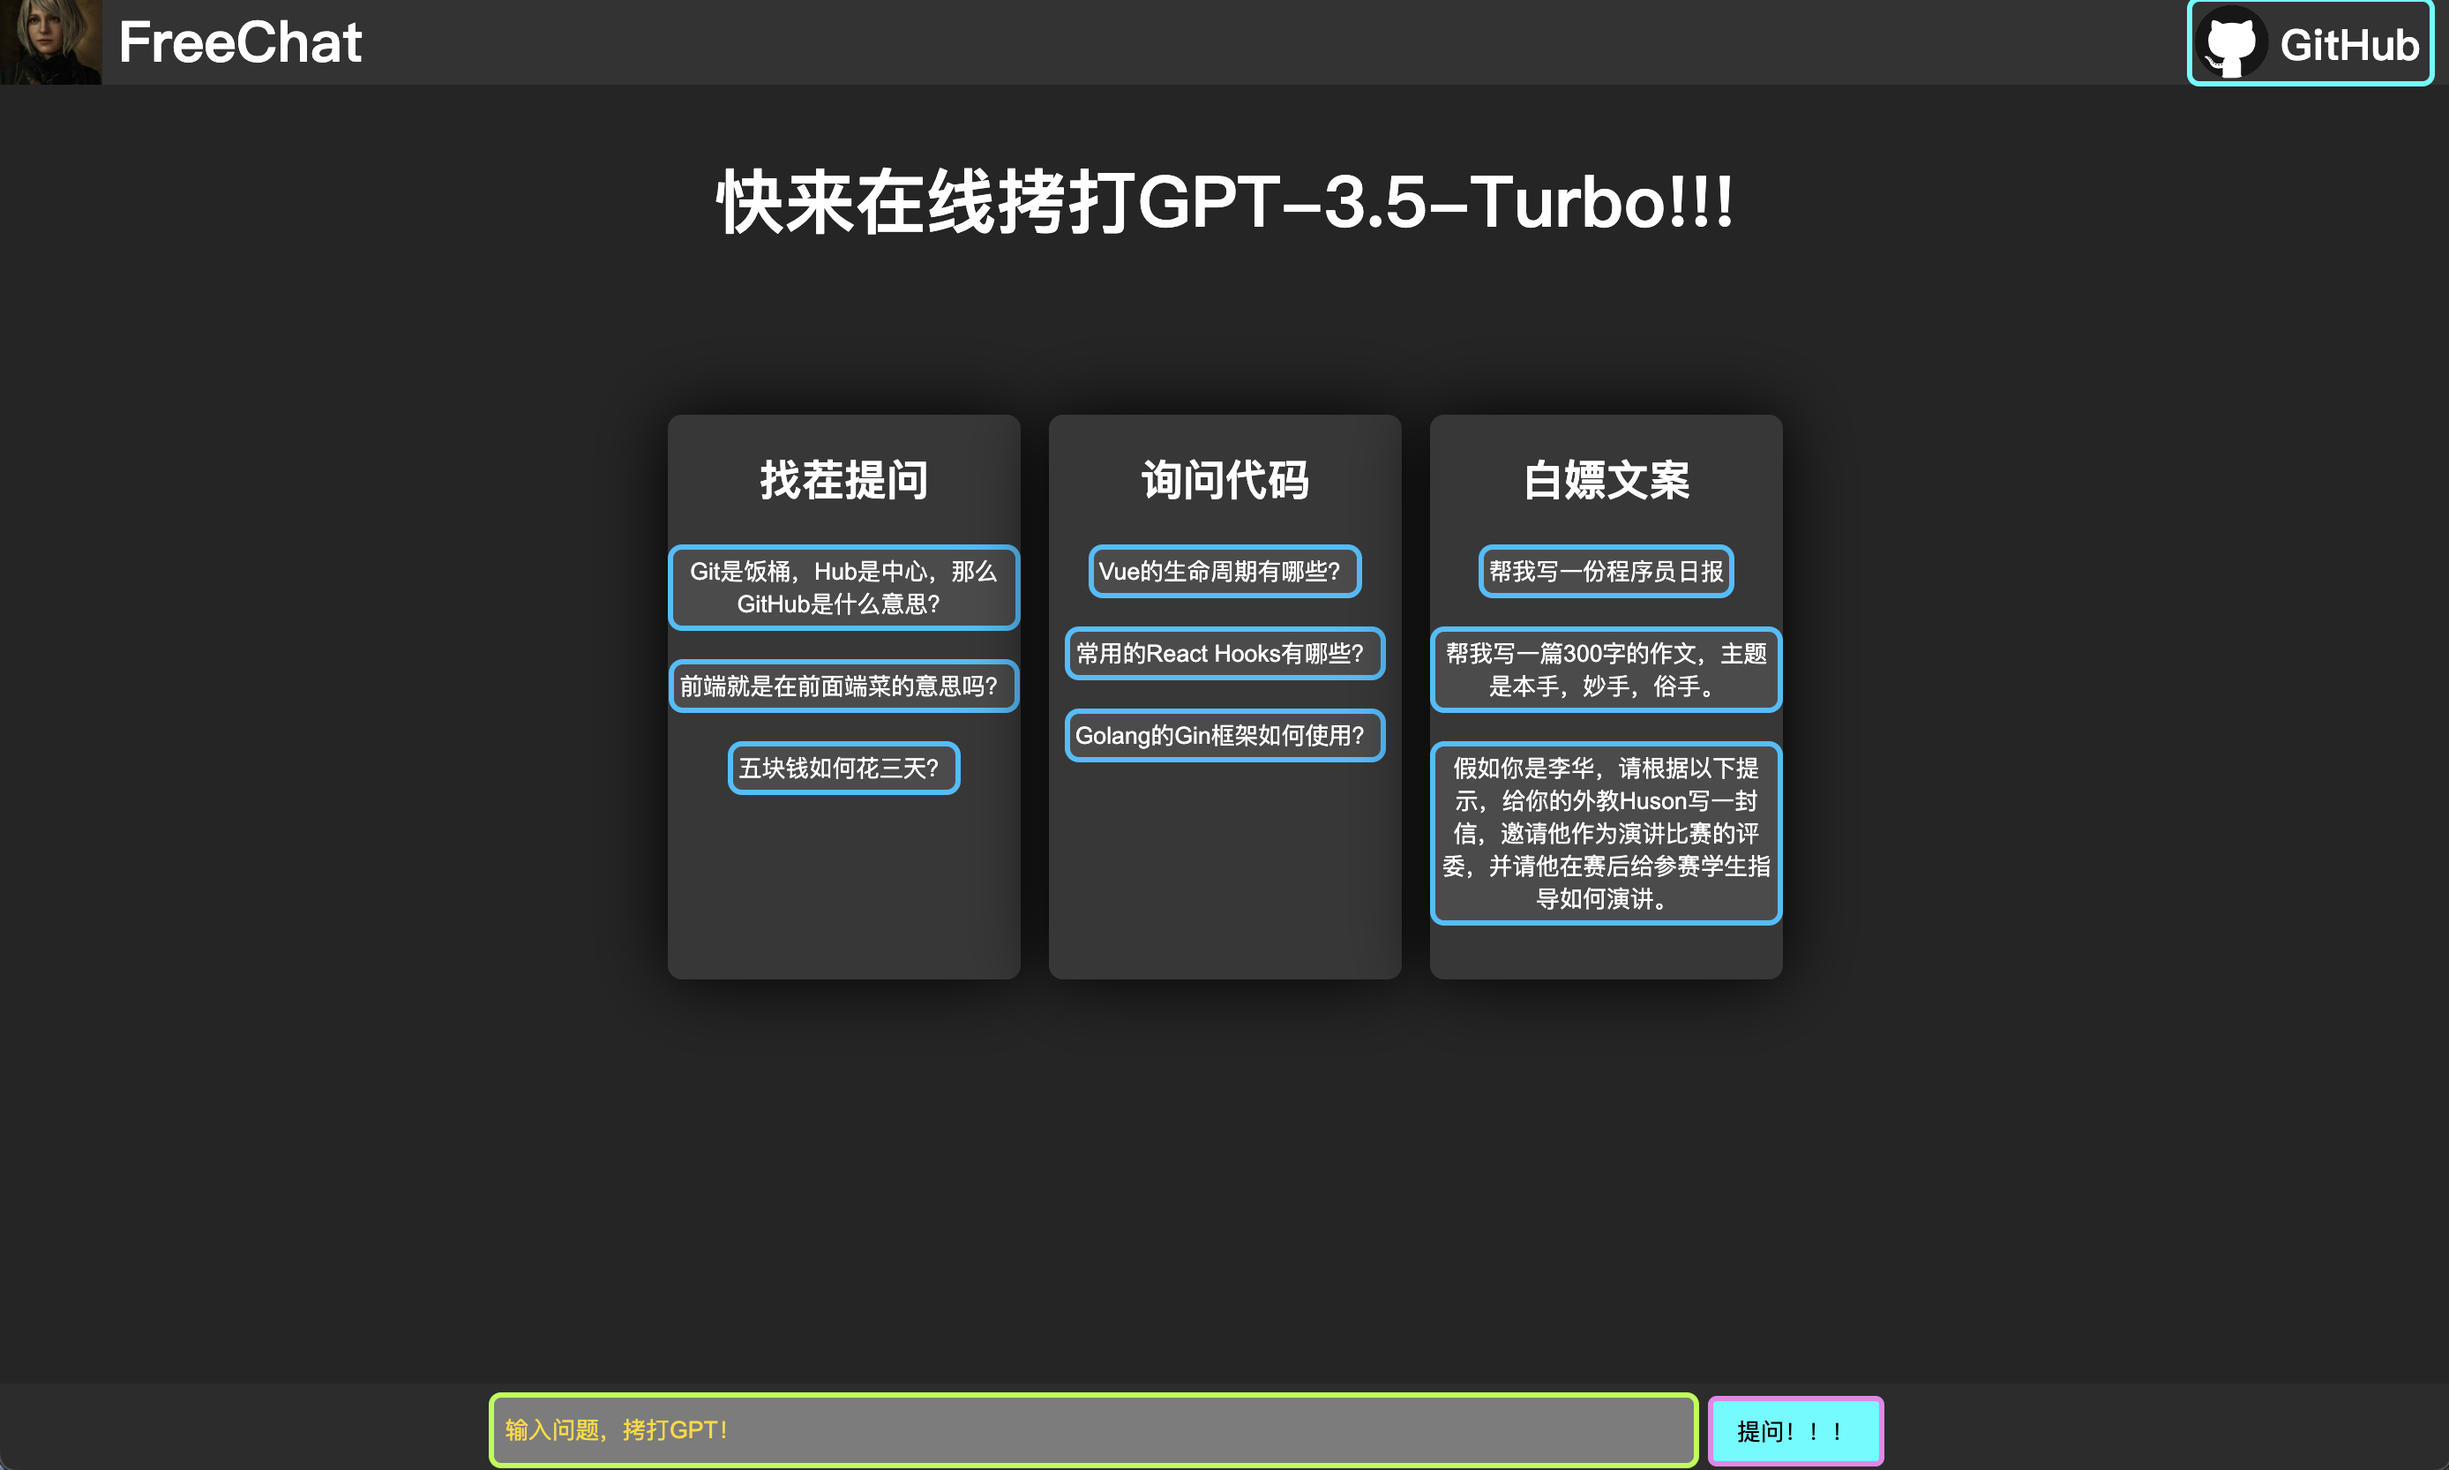
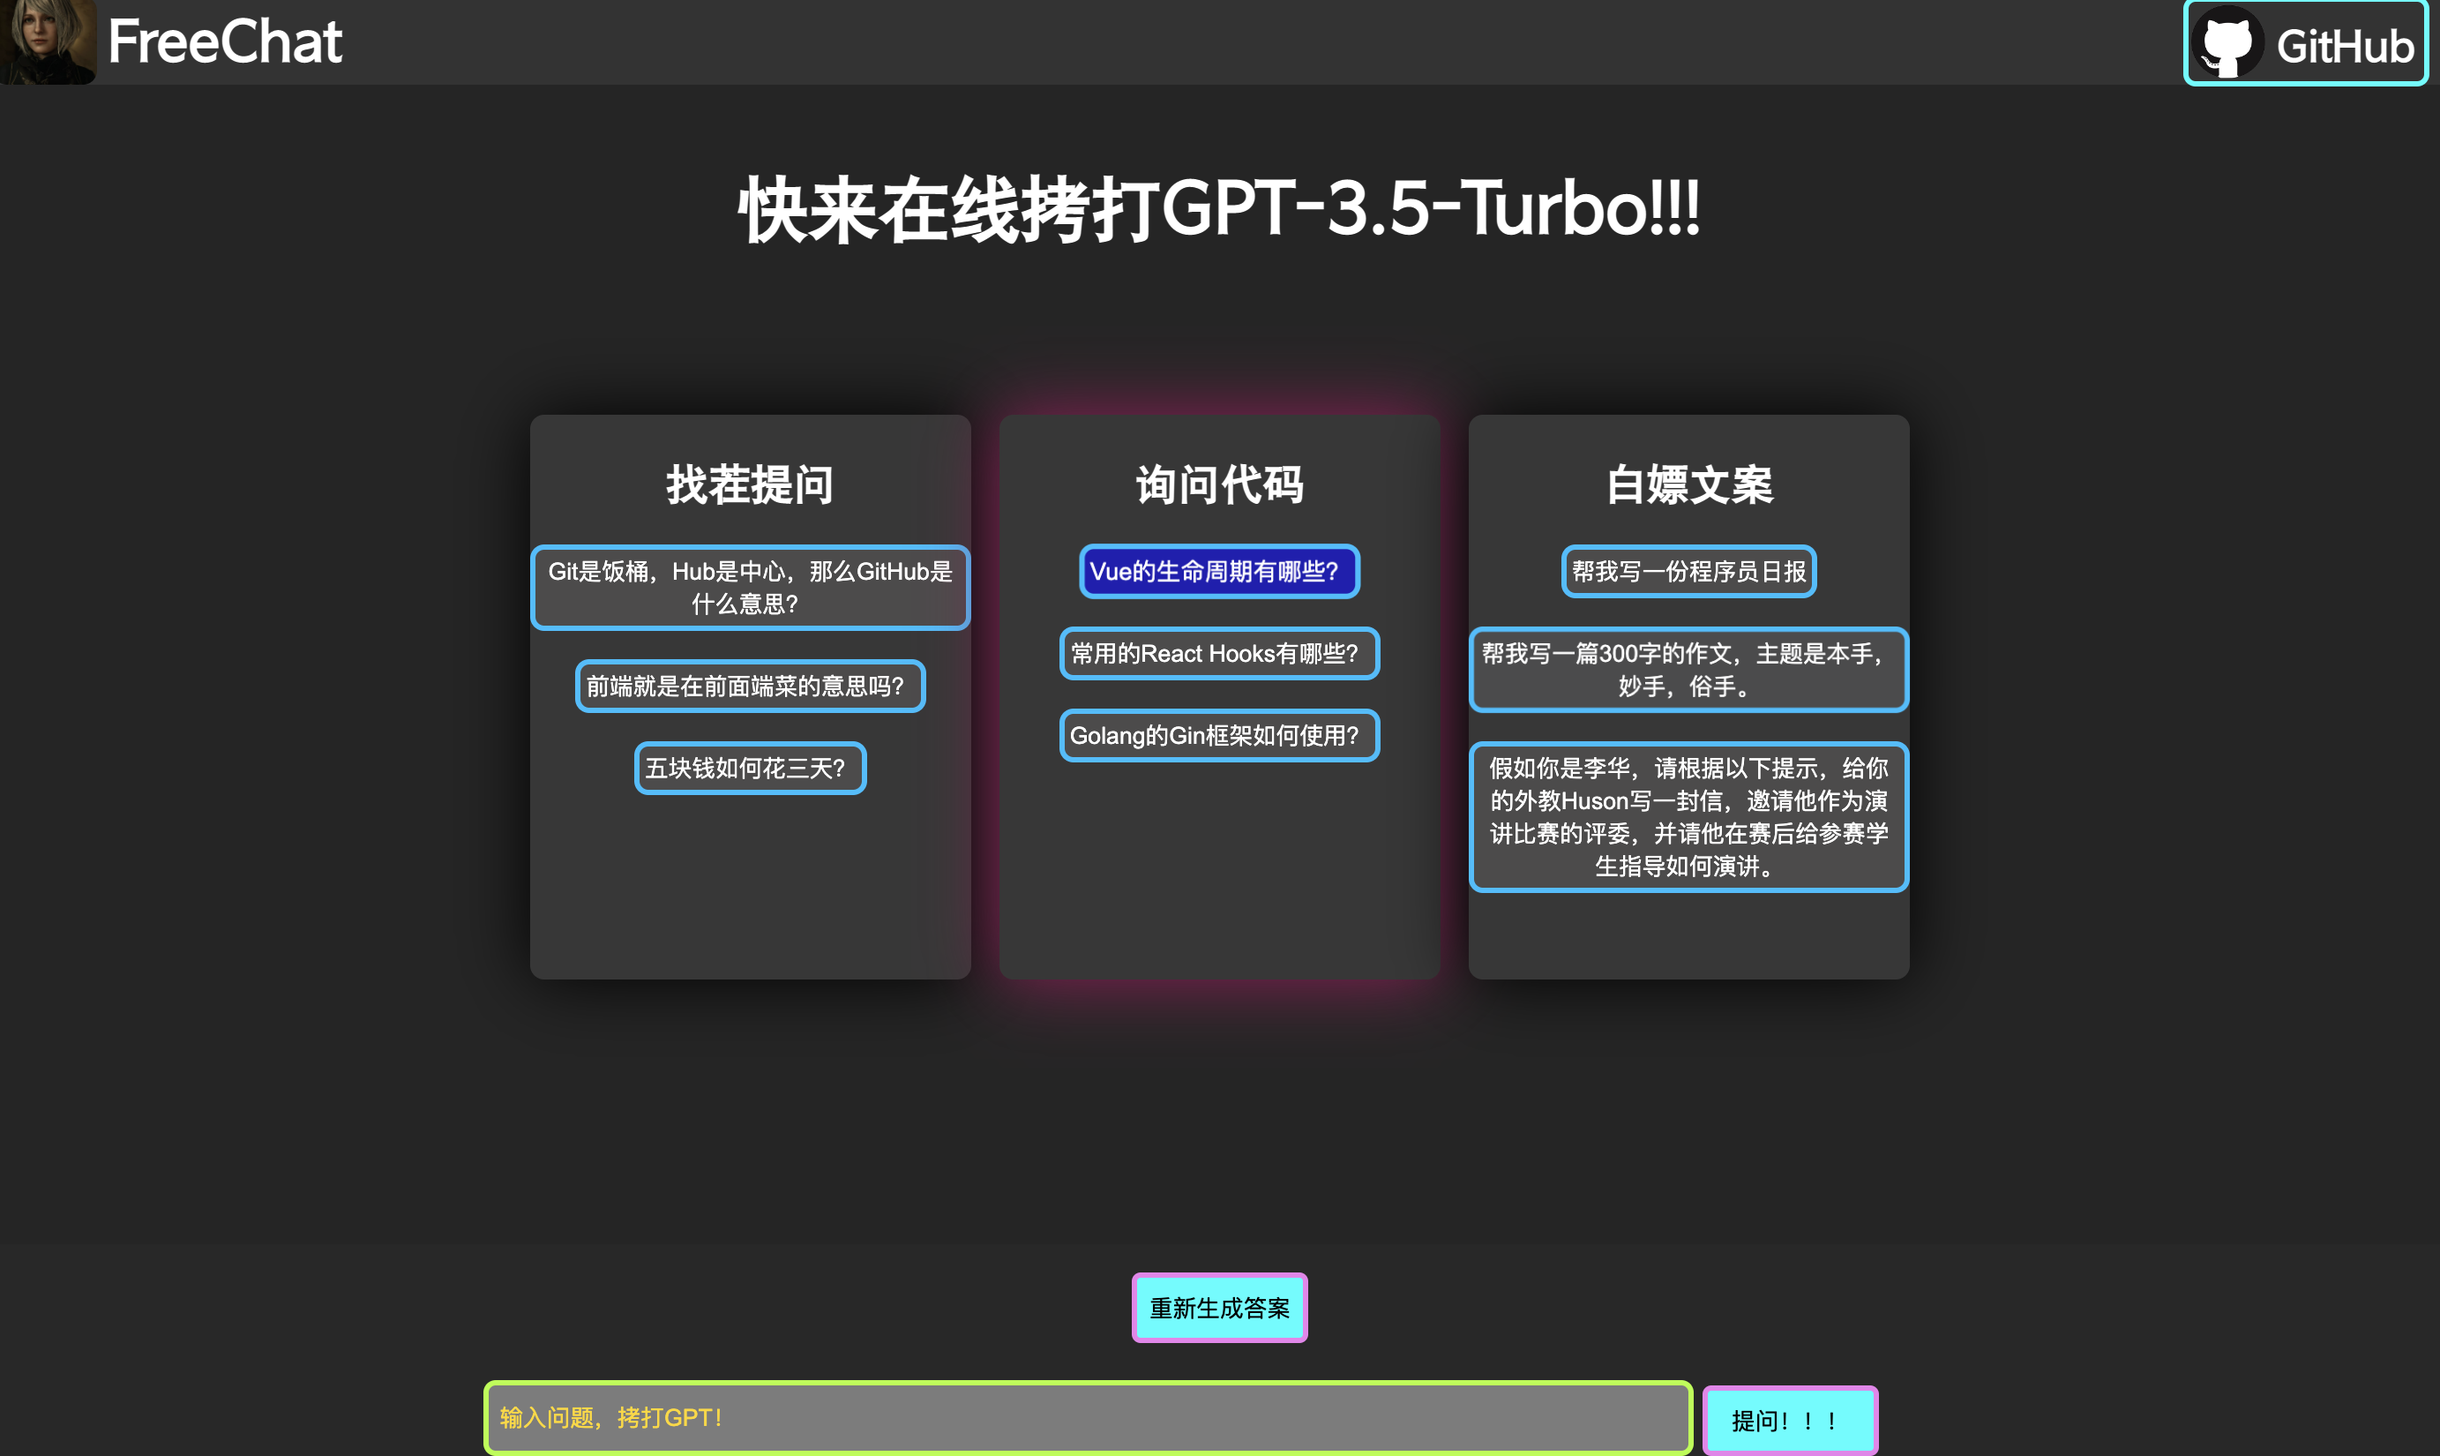
增加重新生成答案接口，并且更新文档

diff --git a/backupPlan.py b/backupPlan.py
@@ -15,13 +15,10 @@ CORS(app, resources=r'/*')
 
 messages = []
 
-'''
+"""
 编写请求函数
-'''
-@app.route("/", methods=["POST"])
-def bai_piao_chatGPT():
-    content = req.json.get("content")
-
+"""
+def send_message(content: str):
     global messages
     messages.append(
         {"role": "user", "content": content}
@@ -43,7 +40,6 @@ def bai_piao_chatGPT():
         "messages": messages
     }
 
-
     # 发起请求
     response = requests.post(
         url,
@@ -56,9 +52,7 @@ def bai_piao_chatGPT():
         请求成功，则把最新的message推入数组
         """
         res_message_obj = response.json()["choices"][0]["message"]
-
         messages.append(res_message_obj)
-
         return res_message_obj["content"]
 
     # 出错则返回错误信息
@@ -66,6 +60,32 @@ def bai_piao_chatGPT():
         # 清空上下文
         messages = []
         return str(err)
+
+'''
+聊天请求接口
+'''
+@app.route("/", methods=["POST"])
+def bai_piao_chatGPT():
+    content = req.json.get("content")
+    return send_message(content)
+
+"""
+重新生成答案
+"""
+@app.route("/regenerate", methods=["GET"])
+def regenerate():
+    global messages
+    if len(messages) < 1:
+        return "消息为空"
+    else:
+        # 提取最后一次的用户问题
+        last_content = messages[len(messages) - 2]["content"]
+        messages = messages[0:-2] # 删除最后两条问答
+
+        # 重新发请求
+        return send_message(last_content)
+
+
 
 
 """
@@ -84,6 +104,8 @@ def clear_context():
 def show_context_count():
     global messages
     return "当前上下文条数：" + str(len(messages))
+
+
 
 
 if __name__== "__main__":

diff --git a/README.md b/README.md
@@ -12,9 +12,12 @@
 ## 已增加前端页面
 前端代码仓库：[Bai-Piao-GPT-WebUI](https://github.com/Vincent-the-gamer/Bai-Piao-GPT-WebUI)
 
+前端已支持markdown代码渲染，后续功能慢慢完善
+
 请大家自行拉取前后端去部署了，我不想公开服务器的使用了，以免被恶意刷流量。
 
 ![前端](./.github/img/frontend.png)
+![前端2](./.github/img/frontend2.png)
 
 ## 开发日志
 [查看开发日志](./devLog.md)
@@ -41,18 +44,27 @@ pip install -r requirements.txt
 3. 运行代码，默认在本地的2333端口开启服务。
 
 ## 主要功能
-我们的根地址是： `http://服务所在ip地址:2333` \
-我编写的接口如下： \
-"/": **post方式**，返回对话结果文本，自动将你的提问和AI的回答写入上下文数组 \
-"/clearContext": **get方式**，清空当前上下文，返回清空后的信息 \
-"/showContextCount": **get方式**，获得当前上下文长度信息
+我们的根地址是： `http://服务所在ip地址:2333` 
+
+**2023.4.1 根地址默认为：`http://服务所在ip地址:2333`**
+
+我编写的接口如下： 
+
+| 接口URL           | 请求方式 | 说明                                                     |
+| :---------------- | -------- | -------------------------------------------------------- |
+| /                 | post     | 返回对话结果文本，自动将你的提问和AI的回答写入上下文数组 |
+| /clearContext     | get      | 清空当前上下文，返回清空后的信息                         |
+| /showContextCount | get      | 获得当前上下文长度信息                                   |
+| /regenerate       | get      | 重新生成最后一次提问的答案                               |
+
+
 
 ## 如何调用
 默认采用2333端口，使用post方式，使用json传参
 
 举例：\
 本地运行时：\
-对http://localhost:2333发起请求的请求体如下
+对`http://localhost:2333`发起请求的请求体如下
 ~~~json
 {
   "content": "前端就是在前面端菜的意思吗?"
